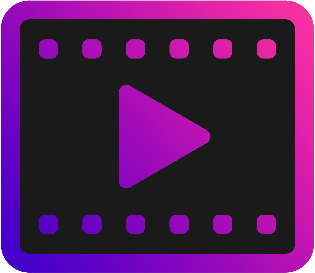
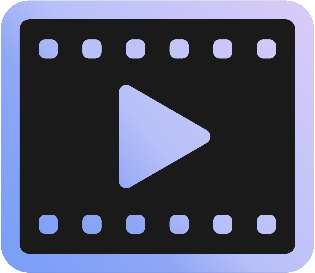
FMZ-14 Refactor namespaces and simplify application config
Change the package base from 'com.filip.tvscheduler' to 'com.filipmikolajzeglen' across multiple classes. Removed an unused CSS file and updated repository with the VideoPlayerConfiguration class to handle application constants. This improves application organization and clarity by reducing redundant code and improving logical grouping among classes, making it easier to maintain and develop further features.

diff --git a/src/main/java/com/filipmikolajzeglen/video/VideoPlayer.java b/src/main/java/com/filipmikolajzeglen/video/VideoPlayer.java
@@ -1,6 +1,6 @@
-package com.filip.tvscheduler.fmztvscheduler.video;
+package com.filipmikolajzeglen.video;
 
-import com.filip.tvscheduler.fmztvscheduler.logger.Logger;
+import com.filipmikolajzeglen.logger.Logger;
 import javafx.animation.KeyFrame;
 import javafx.animation.KeyValue;
 import javafx.animation.PauseTransition;
@@ -32,7 +32,6 @@ import javafx.util.Duration;
 
 import java.io.File;
 import java.net.URL;
-import java.util.Arrays;
 import java.util.Iterator;
 import java.util.Locale;
 import java.util.ResourceBundle;
@@ -40,11 +39,11 @@ import java.util.concurrent.Callable;
 import java.util.concurrent.CompletableFuture;
 import java.util.function.Supplier;
 
-import static com.filip.tvscheduler.fmztvscheduler.video.VideoPlayerConfiguration.*;
+import static com.filipmikolajzeglen.video.VideoPlayerConfiguration.*;
 
 public class VideoPlayer implements Initializable {
 
-    private static Logger logger = new Logger();
+    private final Logger logger = new Logger();
 
     @FXML
     private StackPane stackPaneParent;
@@ -64,6 +63,8 @@ public class VideoPlayer implements Initializable {
     private Button buttonPlayPauseRestart;
     @FXML
     private SVGPath buttonPlayPauseRestartSVG;
+    @FXML
+    private Button buttonNext;
     @FXML
     private SVGPath buttonNextSVG;
     @FXML
@@ -142,7 +143,7 @@ public class VideoPlayer implements Initializable {
 
     private void waitForMediaPlayerReadyAndPlay() {
         try {
-            while(mediaPlayer.getStatus() != MediaPlayer.Status.READY){
+            while (mediaPlayer.getStatus() != MediaPlayer.Status.READY) {
                 Thread.sleep(2);
             }
 
@@ -192,7 +193,6 @@ public class VideoPlayer implements Initializable {
             @Override
             public void run() {
                 logger.error("Error occurred in media player: " + mediaPlayer.getError().getMessage());
-                logger.error("Error occurred stack trace: " + Arrays.toString(mediaPlayer.getError().getStackTrace()));
                 logger.warning("Try to initialize media player once again after error");
                 initializeMediaPlayer(videoPath);
             }
@@ -266,19 +266,14 @@ public class VideoPlayer implements Initializable {
     }
 
     private void setUpButtonHandlers() {
-        logger.info("Setup button handlers");
-        if (buttonPlayPauseRestart != null) {
-            buttonPlayPauseRestart.setOnAction(event -> handlePlayPauseRestart());
-            labelFullScreen.setOnMouseClicked(event -> handleFullscreenClick());
-            labelSpeed.setOnMouseClicked(event -> handleSpeedClick());
+        buttonPlayPauseRestart.setOnAction(event -> handlePlayPauseRestart());
+        labelFullScreen.setOnMouseClicked(event -> handleFullscreenClick());
+        labelSpeed.setOnMouseClicked(event -> handleSpeedClick());
 
-            labelVolume.setOnMouseClicked(event -> handleVolumeClick());
-            labelVolume.setOnMouseEntered(event -> handleVolumeMouseEnter());
-            hBoxVolume.setOnMouseExited(event -> handleVolumeMouseExit());
-            hBoxVolume.setOnMouseEntered(event -> handleVolumeMouseEnter());
-        } else {
-            logger.error("buttonPlayPauseRestart was NULL");
-        }
+        labelVolume.setOnMouseClicked(event -> handleVolumeClick());
+        labelVolume.setOnMouseEntered(event -> handleVolumeMouseEnter());
+        hBoxVolume.setOnMouseExited(event -> handleVolumeMouseExit());
+        hBoxVolume.setOnMouseEntered(event -> handleVolumeMouseEnter());
     }
 
     private void volumeBinding() {
@@ -566,6 +561,7 @@ public class VideoPlayer implements Initializable {
 
     @FXML
     private void buttonNextClicked(MouseEvent event) {
+        logger.info("====================== NEXT VIDEO IS INITIALIZING ======================");
         initializeMediaPlayer(pathToVideoIterator, videoIterator);
     }
 
@@ -601,18 +597,21 @@ public class VideoPlayer implements Initializable {
         }
     }
 
-    // Bind the text of the current time label to the current time of the video.
-    // This will allow the timer to update along with the video.
+    /**
+     * Binds the text of the current time label to the current time of the video.
+     * This method allows the timer to update in synchrony with the video. If the mediaPlayer is NULL,
+     * an error message is logged.
+
+     * Binding created using the createStringBinding method to invoke a Callable,
+     * which is responsible for returning the formatted time string with hours, minutes and seconds.
+     * The time is expressed in milliseconds e.g., 750.0 ms.
+     */
     public void bindCurrentTimeLabel() {
         if (mediaPlayer != null) {
             labelCurrentTime.textProperty().bind(Bindings.createStringBinding(new Callable<String>() {
                 @Override
                 public String call() throws Exception {
-                    // Return the hours, minutes, and seconds of the video.
-                    // %d is an integer
-                    // Time is given in milliseconds. (For example 750.0 ms).
                     String time = getTime(mediaPlayer.getCurrentTime()) + " / ";
-                    //logger.log(RUNNING, "bindCurrentTimeLabel: " + time);
                     return time;
                 }
             }, mediaPlayer.currentTimeProperty()));

diff --git a/src/main/java/com/filipmikolajzeglen/FMZVideoPlayerApplication.java b/src/main/java/com/filipmikolajzeglen/FMZVideoPlayerApplication.java
@@ -1,6 +1,6 @@
-package com.filip.tvscheduler.fmztvscheduler;
+package com.filipmikolajzeglen;
 
-import com.filip.tvscheduler.fmztvscheduler.logger.Logger;
+import com.filipmikolajzeglen.logger.Logger;
 import javafx.application.Application;
 import javafx.fxml.FXMLLoader;
 import javafx.scene.Parent;
@@ -11,20 +11,21 @@ import javafx.stage.Stage;
 import java.io.IOException;
 import java.util.Arrays;
 
-import static com.filip.tvscheduler.fmztvscheduler.video.VideoPlayerConfiguration.APPLICATION_FXML;
-import static com.filip.tvscheduler.fmztvscheduler.video.VideoPlayerConfiguration.APPLICATION_ERROR_LOAD;
-import static com.filip.tvscheduler.fmztvscheduler.video.VideoPlayerConfiguration.APPLICATION_TITLE;
-import static com.filip.tvscheduler.fmztvscheduler.video.VideoPlayerConfiguration.APPLICATION_ICON;
-import static com.filip.tvscheduler.fmztvscheduler.video.VideoPlayerConfiguration.APPLICATION_ERROR;
+import static com.filipmikolajzeglen.video.VideoPlayerConfiguration.APPLICATION_FXML;
+import static com.filipmikolajzeglen.video.VideoPlayerConfiguration.APPLICATION_ERROR_LOAD;
+import static com.filipmikolajzeglen.video.VideoPlayerConfiguration.APPLICATION_TITLE;
+import static com.filipmikolajzeglen.video.VideoPlayerConfiguration.APPLICATION_ICON;
+import static com.filipmikolajzeglen.video.VideoPlayerConfiguration.APPLICATION_ERROR;
+import static java.util.Objects.requireNonNull;
 
-public class Main extends Application {
+public class FMZVideoPlayerApplication extends Application {
 
     private static final Logger logger = new Logger();
 
     @Override
     public void start(Stage primaryStage) {
         try {
-            Parent root = FXMLLoader.load(getClass().getResource(APPLICATION_FXML));
+            Parent root = FXMLLoader.load(requireNonNull(getClass().getResource(APPLICATION_FXML)));
             if (root == null) {
                 throw new IOException(APPLICATION_ERROR_LOAD);
             }

diff --git a/src/main/java/com/filipmikolajzeglen/video/VideoPlayerService.java b/src/main/java/com/filipmikolajzeglen/video/VideoPlayerService.java
@@ -1,6 +1,6 @@
-package com.filip.tvscheduler.fmztvscheduler.video;
+package com.filipmikolajzeglen.video;
 
-import com.filip.tvscheduler.fmztvscheduler.fmzdatabase.FMZDatabase;
+import com.filipmikolajzeglen.database.FMZDatabase;
 
 import java.io.File;
 import java.util.ArrayList;
@@ -8,15 +8,15 @@ import java.util.List;
 import java.util.concurrent.atomic.AtomicInteger;
 import java.util.stream.Collectors;
 
-import static com.filip.tvscheduler.fmztvscheduler.video.VideoPlayerConfiguration.VIDEO_MAIN_SOURCE;
-import static com.filip.tvscheduler.fmztvscheduler.video.VideoPlayerConfiguration.EPISODES_LIMIT_OF_A_SINGLE_SERIES_PER_DAY;
-import static com.filip.tvscheduler.fmztvscheduler.video.VideoPlayerConfiguration.MAXIMUM_NUMBER_OF_EPISODES_IN_THE_SCHEDULE_PER_DAY;
-import static com.filip.tvscheduler.fmztvscheduler.video.VideoPlayerConfiguration.FMZ_DATABASE_NAME;
-import static com.filip.tvscheduler.fmztvscheduler.video.VideoPlayerConfiguration.FMZ_TABLE_NAME;
-import static com.filip.tvscheduler.fmztvscheduler.video.VideoPlayerConfiguration.FMZ_DIRECTORY_PATH;
+import static com.filipmikolajzeglen.video.VideoPlayerConfiguration.VIDEO_MAIN_SOURCE;
+import static com.filipmikolajzeglen.video.VideoPlayerConfiguration.EPISODES_LIMIT_OF_A_SINGLE_SERIES_PER_DAY;
+import static com.filipmikolajzeglen.video.VideoPlayerConfiguration.MAXIMUM_NUMBER_OF_EPISODES_IN_THE_SCHEDULE_PER_DAY;
+import static com.filipmikolajzeglen.video.VideoPlayerConfiguration.FMZ_DATABASE_NAME;
+import static com.filipmikolajzeglen.video.VideoPlayerConfiguration.FMZ_TABLE_NAME;
+import static com.filipmikolajzeglen.video.VideoPlayerConfiguration.FMZ_DIRECTORY_PATH;
 import static java.util.Objects.requireNonNull;
 
-public class VideoPlayerService {
+class VideoPlayerService {
 
     private final static FMZDatabase<Video> DATABASE = new FMZDatabase<>();
 

diff --git a/src/main/java/com/filipmikolajzeglen/database/FMZDatabase.java b/src/main/java/com/filipmikolajzeglen/database/FMZDatabase.java
@@ -1,4 +1,4 @@
-package com.filip.tvscheduler.fmztvscheduler.fmzdatabase;
+package com.filipmikolajzeglen.database;
 
 import com.fasterxml.jackson.databind.ObjectMapper;
 
@@ -11,11 +11,21 @@ import java.util.Objects;
 import java.util.Optional;
 
 import com.fasterxml.jackson.core.type.TypeReference;
-import com.filip.tvscheduler.fmztvscheduler.logger.Logger;
+import com.filipmikolajzeglen.logger.Logger;
 
+/**
+ * FMZDatabase is a generic file-based database utility class. It provides the ability to perform
+ * basic CRUD operations (Create, Read, Update, Delete) on documents of type DOCUMENT that extends
+ * 'FMZIdentifiable' and serializable interface. Each instance of this class represents a single table
+ * within the database. It uses JSON as the file format for storing the documents and Jackson library
+ * for serialization and deserialization. It also offers a simple querying method by id using 'findById' method,
+ * and loading all documents using 'findAll' method.
+ *
+ * @param <DOCUMENT> the type of documents to store which must be serializable and identifiable
+ */
 public class FMZDatabase<DOCUMENT extends FMZIdentifiable & Serializable> {
 
-    private static final Logger logger = new Logger();
+    private final Logger logger = new Logger();
 
     private String filename;
     private String directoryPath;

diff --git a/src/main/java/com/filipmikolajzeglen/video/VideoPlayerConfiguration.java b/src/main/java/com/filipmikolajzeglen/video/VideoPlayerConfiguration.java
@@ -1,8 +1,8 @@
-package com.filip.tvscheduler.fmztvscheduler.video;
+package com.filipmikolajzeglen.video;
 
 public class VideoPlayerConfiguration {
 
-    public static final String PRIMARY_COLOR = "#6502C4";
+    public static final String PRIMARY_COLOR = "#7C9EF7";
     public static final String GRADIENT_COLOR = "rgba(255, 255, 255, 0.28)";
 
     public static final double DEFAULT_VOLUME_VALUE = 0.5;
@@ -20,7 +20,7 @@ public class VideoPlayerConfiguration {
 
     public final static String APPLICATION_TITLE = "FMZ Video Player";
     public final static String APPLICATION_ICON = "fmzPlayerIcon.png";
-    public final static String APPLICATION_FXML = "/com/filip/tvscheduler/fmztvscheduler/fmz-video-player.fxml";
+    public final static String APPLICATION_FXML = "/com/filipmikolajzeglen/fmz-video-player.fxml";
     public final static String APPLICATION_ERROR_LOAD = "Cannot load " + APPLICATION_FXML;
     public final static String APPLICATION_ERROR = "Cannot start the application: ";
 

diff --git a/src/main/java/com/filipmikolajzeglen/video/Video.java b/src/main/java/com/filipmikolajzeglen/video/Video.java
@@ -1,6 +1,6 @@
-package com.filip.tvscheduler.fmztvscheduler.video;
+package com.filipmikolajzeglen.video;
 
-import com.filip.tvscheduler.fmztvscheduler.fmzdatabase.FMZIdentifiable;
+import com.filipmikolajzeglen.database.FMZIdentifiable;
 
 import java.io.File;
 import java.io.Serializable;
@@ -32,7 +32,6 @@ public class Video implements Serializable, FMZIdentifiable {
         this.episodeNumber = currentVideo.substring(3, 6);
         this.seasonNumber = currentVideo.substring(0, 3);
         this.videoExtension = currentVideo.substring(currentVideo.length() - 3);
-        ;
         this.videoPath = directory.getAbsolutePath() + "\\" + currentVideo;
         this.isWatched = false;
         this.id = String.format("%s%s-%s", seasonNumber, episodeNumber, videoName);

diff --git a/src/main/java/module-info.java b/src/main/java/module-info.java
@@ -5,8 +5,8 @@ module com.filip.tvscheduler.fmztvscheduler {
     requires com.fasterxml.jackson.core;
     requires com.fasterxml.jackson.databind;
 
-    exports com.filip.tvscheduler.fmztvscheduler;
-    exports com.filip.tvscheduler.fmztvscheduler.fmzdatabase;
-    exports com.filip.tvscheduler.fmztvscheduler.video to com.fasterxml.jackson.databind;
-    opens com.filip.tvscheduler.fmztvscheduler.video to javafx.fxml;
+    exports com.filipmikolajzeglen;
+    exports com.filipmikolajzeglen.database;
+    exports com.filipmikolajzeglen.video to com.fasterxml.jackson.databind;
+    opens com.filipmikolajzeglen.video to javafx.fxml;
 }

diff --git a/src/main/java/com/filipmikolajzeglen/logger/Logger.java b/src/main/java/com/filipmikolajzeglen/logger/Logger.java
@@ -1,9 +1,9 @@
-package com.filip.tvscheduler.fmztvscheduler.logger;
+package com.filipmikolajzeglen.logger;
 
 import java.time.LocalDateTime;
 import java.time.format.DateTimeFormatter;
 
-import static com.filip.tvscheduler.fmztvscheduler.logger.LoggerLevel.*;
+import static com.filipmikolajzeglen.logger.LoggerLevel.*;
 
 /**
  * A simple logging class for videos.

diff --git a/src/main/java/com/filipmikolajzeglen/database/FMZIdentifiable.java b/src/main/java/com/filipmikolajzeglen/database/FMZIdentifiable.java
@@ -1,7 +1,7 @@
-package com.filip.tvscheduler.fmztvscheduler.fmzdatabase;
+package com.filipmikolajzeglen.database;
 
 import com.fasterxml.jackson.databind.annotation.JsonDeserialize;
-import com.filip.tvscheduler.fmztvscheduler.video.Video;
+import com.filipmikolajzeglen.video.Video;
 
 @JsonDeserialize(as = Video.class)
 public interface FMZIdentifiable {

diff --git a/src/main/java/com/filipmikolajzeglen/logger/LoggerLevel.java b/src/main/java/com/filipmikolajzeglen/logger/LoggerLevel.java
@@ -1,4 +1,4 @@
-package com.filip.tvscheduler.fmztvscheduler.logger;
+package com.filipmikolajzeglen.logger;
 
 enum LoggerLevel {
     INFO("\u001B[36m"),
